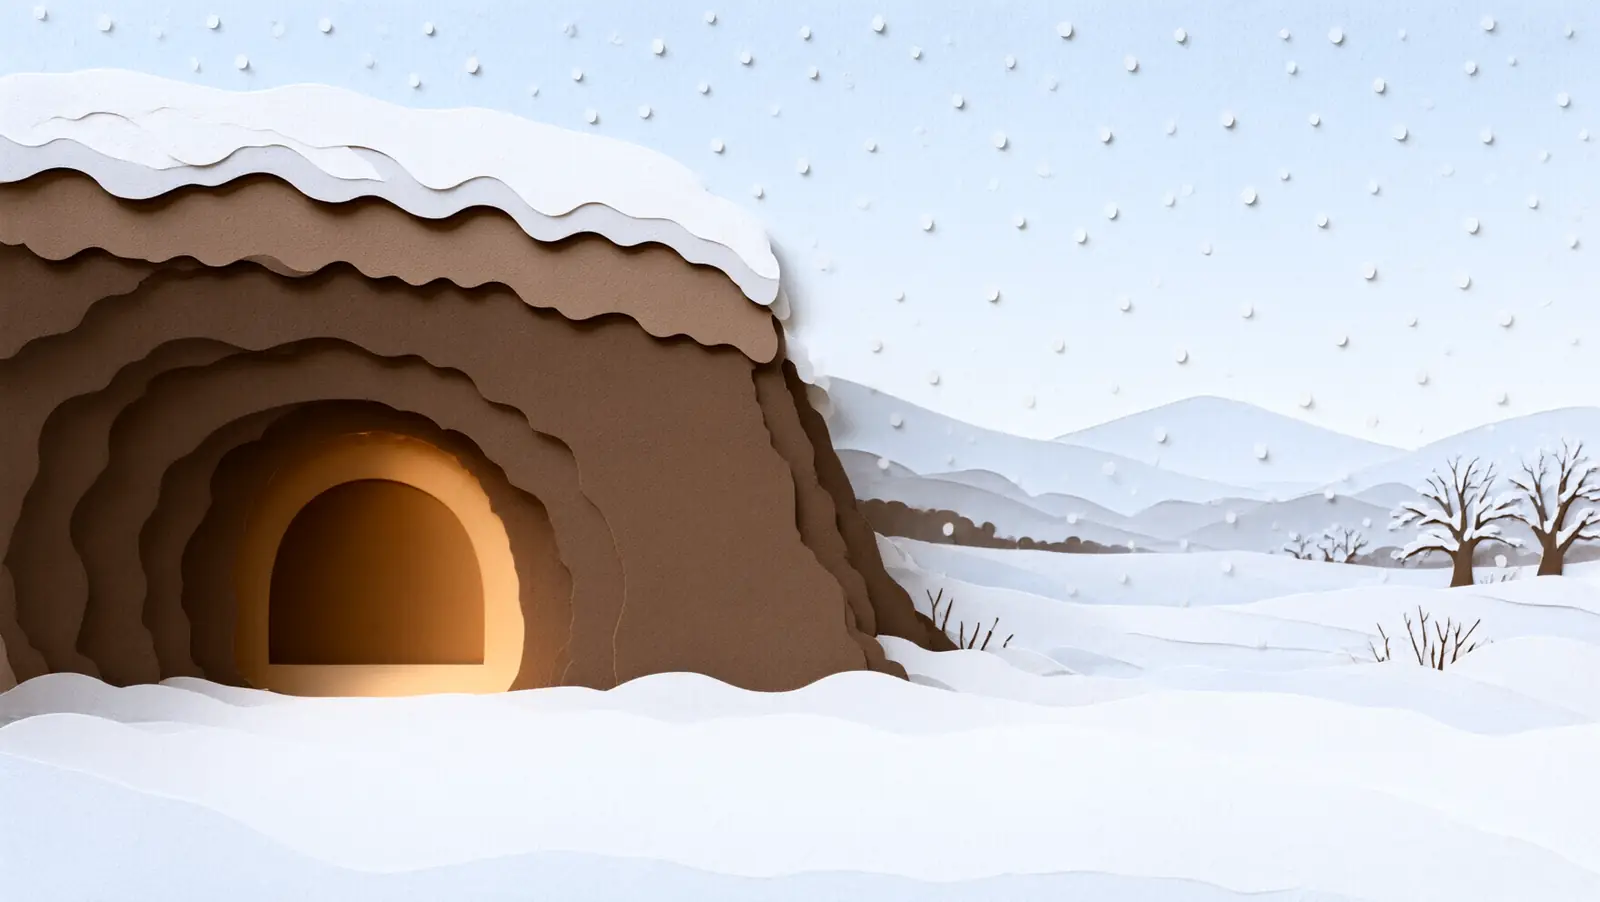
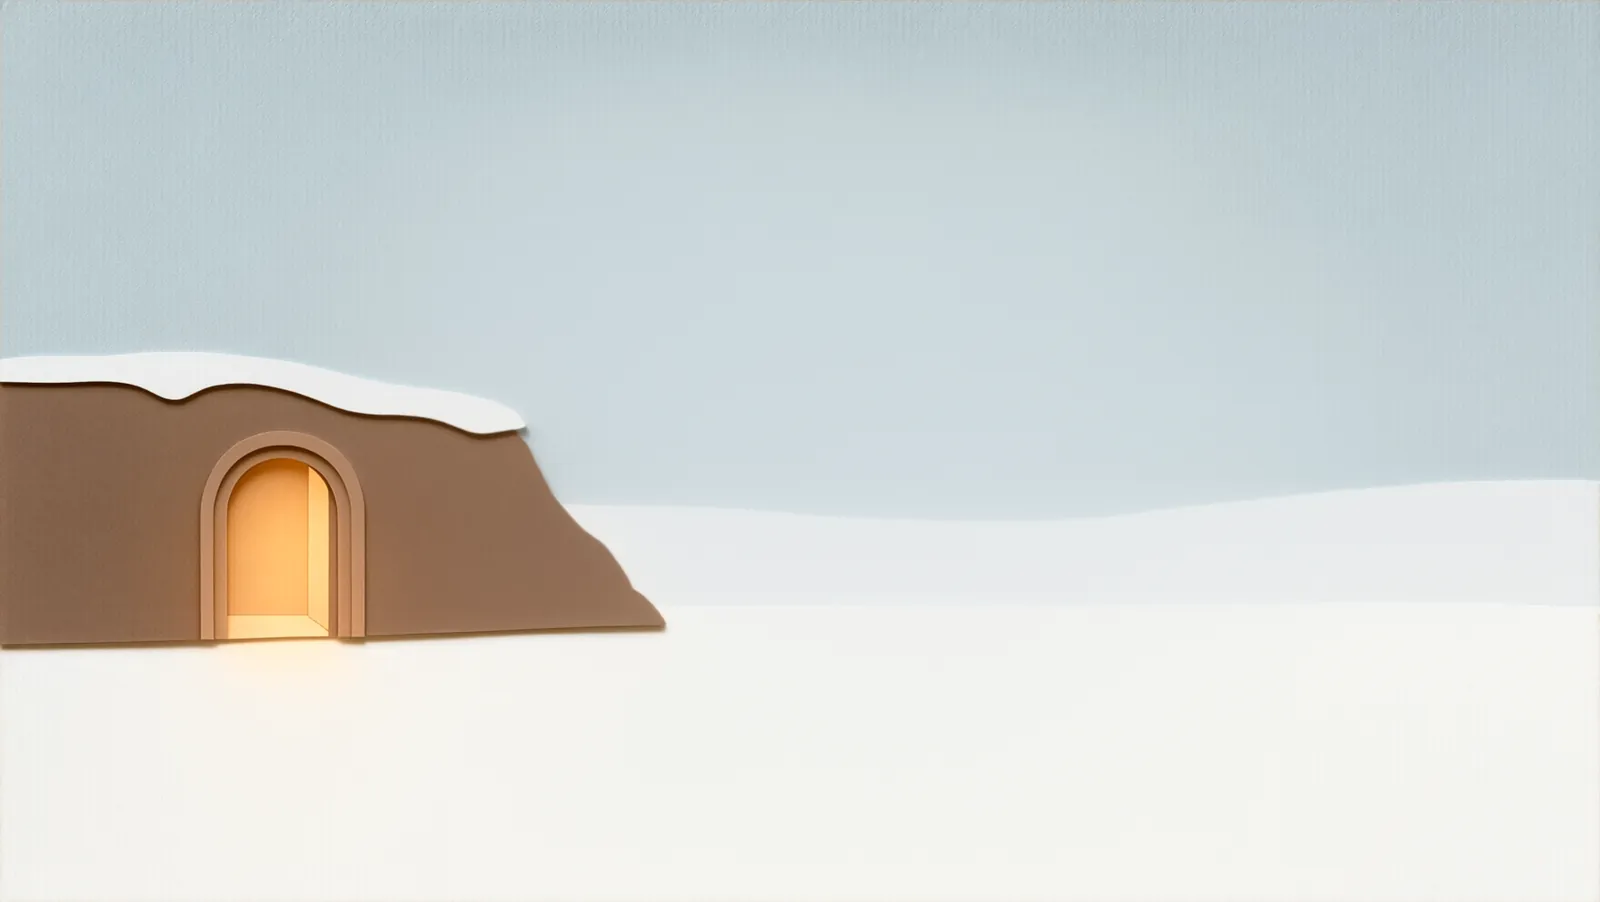
개미와 베짱이 문 배경 새 규칙으로 교체: 평평한 하늘·눈밭·흙둑 문간 하나, 문짝·개미 위치 맞춤
Claude-Session: https://claude.ai/code/session_01LNk5ZqxZZjA2bBcEAsTsQ1

diff --git a/tales/ant_grasshopper/ant_grasshopper.js b/tales/ant_grasshopper/ant_grasshopper.js
@@ -421,19 +421,19 @@
     const { el, paper } = T, b = T.bg;
     const DX = narrow() ? 200 : 0;
     if (bgImage(T, 'door', { dx: DX })) {
-      const arch = `M${140 + DX} 446 V368 Q${140 + DX} 298 ${220 + DX} 298 Q${300 + DX} 298 ${300 + DX} 368 V446 Z`;
+      const arch = `M${112 + DX} 406 V330 Q${112 + DX} 286 ${150 + DX} 286 Q${188 + DX} 286 ${188 + DX} 330 V406 Z`;
       const glow = el('path', { d: arch, fill: '#FFD58A', opacity: .15 }, b); glow.style.mixBlendMode = 'screen';
-      const door = el('g', {}, T.world); origin(door, 140 + DX, 0);
+      const door = el('g', {}, T.world); origin(door, 112 + DX, 0);
       if (artUrl('door_leaf')) { // 그림 널판 문짝: 문간 아치 모양으로 오려 아래 끝에 붙인다 (위쪽 둥근 끝은 아치가 대신)
         const cp = el('clipPath', { id: 'agDoorClip', clipPathUnits: 'userSpaceOnUse' }, door); el('path', { d: arch }, cp);
         const inner = el('g', { 'clip-path': 'url(#agDoorClip)', filter: 'url(#pp)' }, door);
-        const w = 160, h = w / AR.door_leaf;
-        el('image', { href: artUrl('door_leaf'), x: 140 + DX, y: 446 - h, width: w, height: h, preserveAspectRatio: 'none' }, inner);
+        const w = 76, h = Math.max(w / AR.door_leaf, 124);
+        el('image', { href: artUrl('door_leaf'), x: 112 + DX, y: 406 - h, width: w, height: h, preserveAspectRatio: 'none' }, inner);
         el('path', { d: arch, fill: '#fff', opacity: 0 }, door);
       } else paper(door, [['path', { d: arch, fill: '#8E6440' }],
         ...[180, 220, 260].map(x => ['rect', { x: x + DX - 3, y: x === 220 ? 300 : 308, width: 6, height: x === 220 ? 145 : 137, fill: C.bark }]),
         ['circle', { cx: 284 + DX, cy: 380, r: 8, fill: C.gold }]]);
-      return { door, glow, art: true, hopX: narrow() ? 640 : 520, hostX: 230 + DX, babyX: 175 + DX, y: 452, hopY: 474, knock: [300 + DX, 280], spark: [220 + DX, 370] };
+      return { door, glow, art: true, hopX: narrow() ? 640 : 520, hostX: 168 + DX, babyX: 130 + DX, y: 420, hopY: 442, knock: [190 + DX, 272], spark: [150 + DX, 340] };
     }
     el('rect', { x: -300, y: -300, width: 1600, height: 1200, fill: SKY.winter }, b);
     paper(b, [['path', { d: 'M-300 600 L-300 40 Q300 -20 660 200 Q720 300 720 600 Z', fill: C.soil }],
